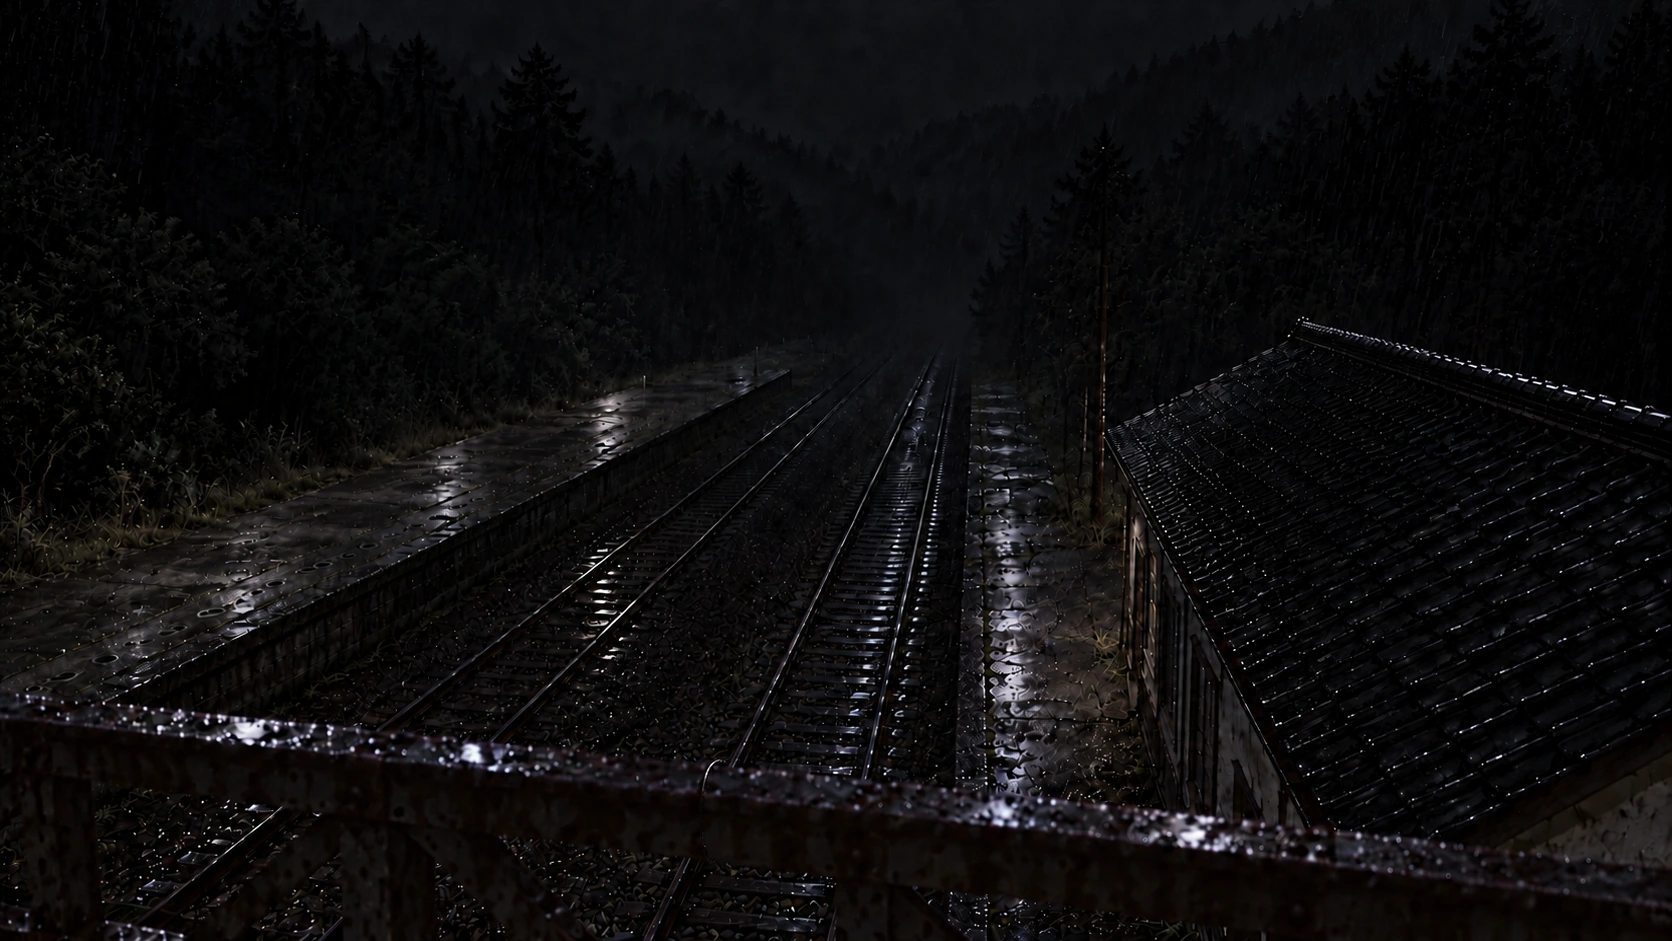
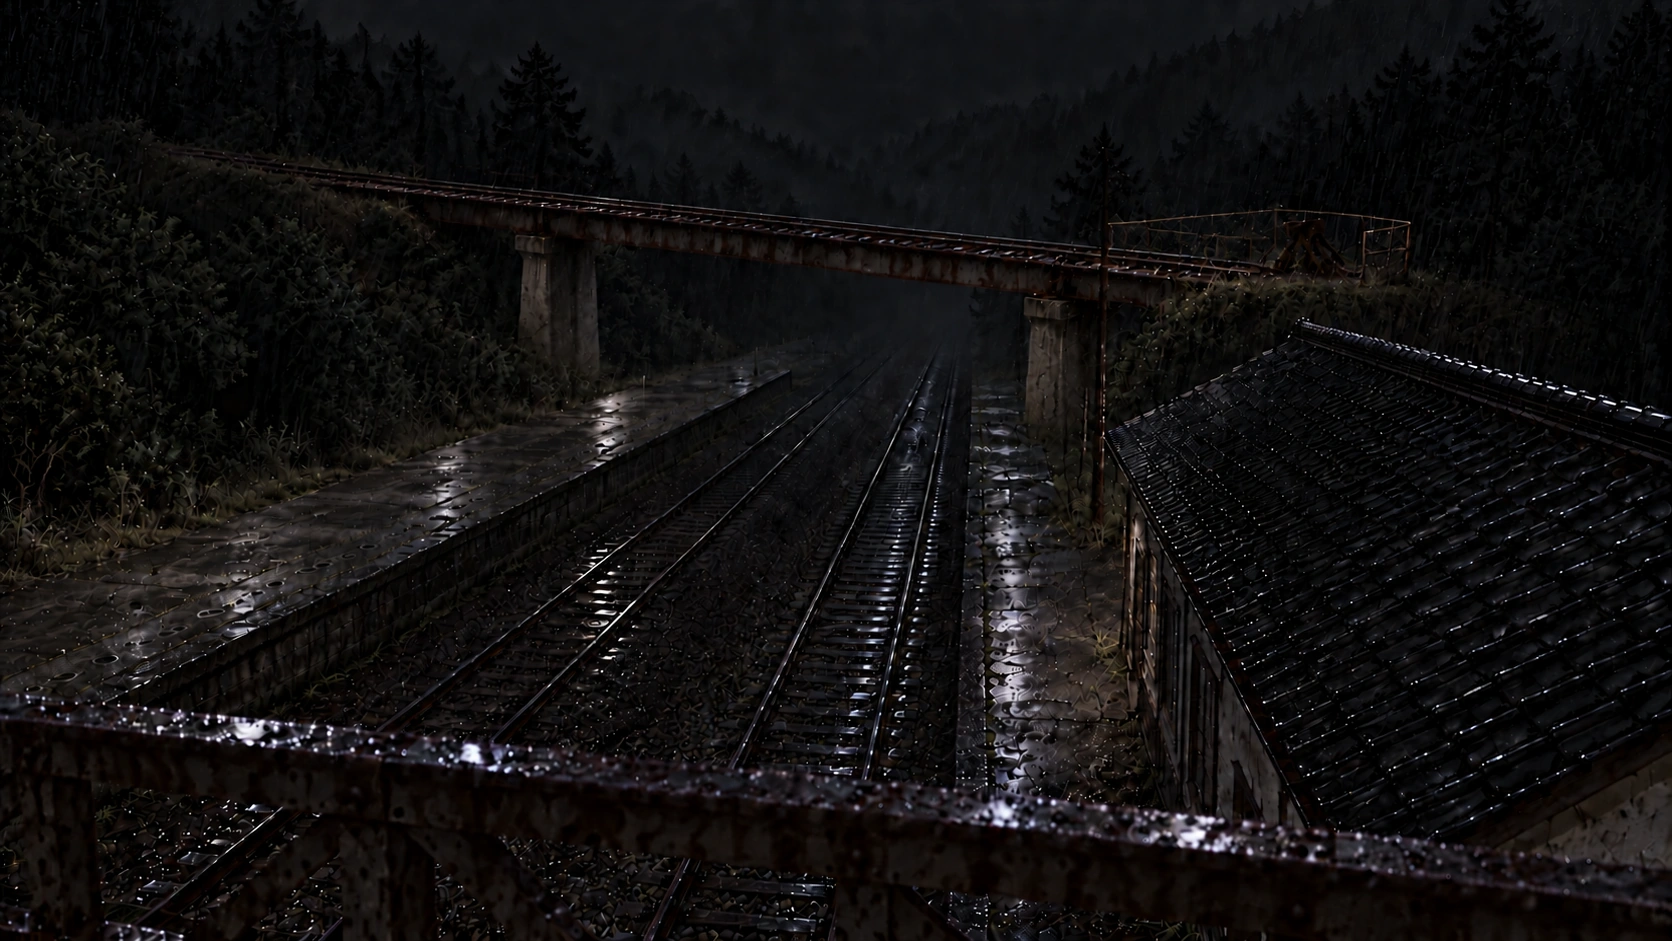
feat: 旧線の立体交差を線路配置と橋の実景に反映

diff --git a/src/remake/World.tsx b/src/remake/World.tsx
@@ -11,7 +11,7 @@ import { RecordCard } from './ServiceRecords';
 import { RecorderImage } from './Recorder';
 import { owns } from './model';
 import type { Action, Item, Room, State } from './model';
-export type Focus = 'railTag' | 'hookRack' | 'bridgeGate' | 'arrivalTicket' | 'signal' | 'tools' | 'bag' | 'photos' | 'recorder' | 'case' | 'map' | 'ticket' | 'reader' | 'hatch' | 'counterDrawer' | 'notices' | 'platformClock' | 'receipt' | 'officeLock' | 'paperView' | 'item' | 'seat' | null;
+export type Focus = 'crossing' | 'railTag' | 'hookRack' | 'bridgeGate' | 'arrivalTicket' | 'signal' | 'tools' | 'bag' | 'photos' | 'recorder' | 'case' | 'map' | 'ticket' | 'reader' | 'hatch' | 'counterDrawer' | 'notices' | 'platformClock' | 'receipt' | 'officeLock' | 'paperView' | 'item' | 'seat' | null;
 export const availableViews: Partial<Record<Room, string[]>> = { train: ['座席と鞄', '前方の座席', '車端'], platform: ['駅舎側', '列車側', '西の階段'], waiting: ['南の窓', '窓口', '出入口'], forecourt: ['駅前'], office: ['机と南の窓', '北の保管区画'], bridge: ['駅舎の屋根と北壁', '線路と屋根', '北端の保守柵'], north: ['停車灯と踏み板', '西の橋階段'] };
 function CounterObjects({ s }: {
     s: State;
@@ -32,7 +32,7 @@ export function World({ s, dispatch, inspect, selected, say }: {
     if (s.room === 'platform')
         return s.camera === 2 ? image('platform/west-bridge', '南ホーム西端の跨線橋階段', <Touch name="西の跨線橋へ上がる" rect={[34, 17, 18, 55]} act={() => move('bridge', 0)}/>) : s.camera === 1 ? image('platform/train', 'ホームに停まる列車', <Touch name="車内へ入る" rect={[37, 23, 22, 57]} act={() => move('train')}/>) : image('platform/station', '南ホームから見た待合室', <><Clock minutes={23 * 60 + 17} transform="translate(1030 302) scale(.72)"/><Touch name="待合室へ入る" rect={[36, 34, 20, 44]} act={() => move('waiting', 0)}/><Touch name="ホームの時計" rect={[57, 25, 9, 16]} act={() => inspect('platformClock')}/></>);
     if (s.room === 'bridge')
-        return s.camera === 1 ? <RailTagWide s={s} inspect={() => inspect('railTag')}/> : s.camera === 2 ? <BridgeGateWide s={s} dispatch={dispatch} inspect={() => inspect('bridgeGate')} enterNorth={() => move('north', 0)}/> : image('bridge/west-roof', '跨線橋から見える駅舎の北壁と西端', <Touch name="南ホームへ下りる" rect={[0, 56, 23, 44]} act={() => move('platform', 2)}/>);
+        return s.camera === 1 ? <RailTagWide s={s} inspect={() => inspect('railTag')} observe={() => inspect('crossing')}/> : s.camera === 2 ? <BridgeGateWide s={s} dispatch={dispatch} inspect={() => inspect('bridgeGate')} enterNorth={() => move('north', 0)}/> : image('bridge/west-roof', '跨線橋から見える駅舎の北壁と西端', <Touch name="南ホームへ下りる" rect={[0, 56, 23, 44]} act={() => move('platform', 2)}/>);
     if (s.room === 'waiting') {
         if (s.camera === 0)
             return image('waiting/south', '待合室の二つの南窓とベンチ');

diff --git a/src/remake/RailTag.tsx b/src/remake/RailTag.tsx
@@ -4,13 +4,17 @@ import { owns } from './model';
 import type { Action, Item, State } from './model';
 const root = '/assets/remake/bridge/';
 function stage(s: State) { return owns(s, 'pin') ? 'empty' : s.values.tagDepth?.[0] === 2 ? s.values.tagCaught?.[0] === 1 ? 'caught' : 'extended' : s.values.tagDepth?.[0] === 1 ? 'inserted' : 'initial'; }
-export function RailTagWide({ s, inspect }: {
+export function RailTagWide({ s, inspect, observe }: {
     s: State;
     inspect: () => void;
+    observe: () => void;
 }) {
-    useEffect(() => { for (const name of ['east-tag', 'east-tag-inserted', 'east-tag-extended', 'east-tag-caught', 'east-tag-empty'])
-        void decode(root + name + '.webp').catch(() => { }); }, []);
-    return <Photo src={root + 'east-tag' + (stage(s) === 'initial' ? '' : '-' + stage(s)) + '.webp'} label="跨線橋から東の線路と濡れた手すり">
+    useEffect(() => {
+        for (const name of ['east-tag', 'east-tag-empty'])
+            void decode(root + name + '.webp').catch(() => { });
+    }, []);
+    return <Photo src={root + 'east-tag' + (stage(s) === 'empty' ? '-empty' : '') + '.webp'} label="跨線橋から東の線路と濡れた手すり">
+        <Touch name="線路を跨ぐ古い高架" rect={[12, 13, 72, 24]} act={observe}/>
         <Touch name="濡れた手すりの下側" rect={[27, 69, 47, 30]} act={inspect}/>
     </Photo>;
 }
@@ -20,8 +24,10 @@ export function RailTagDetail({ s, dispatch, selected, say }: {
     selected: Item | null;
     say: (m: string) => void;
 }) {
-    useEffect(() => { for (const name of ['rail-tag', 'rail-tag-inserted', 'rail-tag-extended', 'rail-tag-caught', 'rail-tag-empty'])
-        void decode(root + name + '.webp').catch(() => { }); }, []);
+    useEffect(() => {
+        for (const name of ['rail-tag', 'rail-tag-inserted', 'rail-tag-extended', 'rail-tag-caught', 'rail-tag-empty'])
+            void decode(root + name + '.webp').catch(() => { });
+    }, []);
     const state = stage(s);
     return <Photo src={root + 'rail-tag' + (state === 'initial' ? '' : '-' + state) + '.webp'} label="手すりの隙間と外側に吊るされた薄い金具">
         {state === 'initial' && <><Touch name="手すりの上側" rect={[30, 16, 33, 27]} act={() => say('上の支柱に当たる。')}/><Touch name="手すりの下の隙間" rect={[14, 43, 28, 33]} act={() => !owns(s, 'hook') || selected !== 'hook' ? say('手では届かない。') : dispatch({ type: 'tagInsert' })}/></>}

diff --git a/src/remake/routeGeometry.ts b/src/remake/routeGeometry.ts
@@ -1,0 +1,56 @@
+import type { Node } from './model';
+export type Site = Node | 'S' | 'R' | 'O' | 'X' | 'bend';
+export type Position = {
+    x: number;
+    y: number;
+    z: number;
+};
+/** Metres. The station footprint is x=0..18; the wider railway uses this same frame. */
+export const sites: Record<Site, Position> = {
+    S: { x: 0, y: 5, z: 0 }, R: { x: 18, y: 5, z: 0 },
+    A: { x: -12, y: 5, z: 0 }, B: { x: -24, y: 0, z: 0 },
+    C: { x: -22, y: 150, z: 0 }, D: { x: -54, y: 0, z: 0 },
+    E: { x: -33, y: 30, z: 0 }, F: { x: -49, y: 30, z: 0 },
+    O: { x: -65, y: 0, z: 0 }, X: { x: -49, y: 20, z: 4.5 },
+    bend: { x: -26, y: 180, z: 0 },
+};
+export const railLines: Record<string, Site[]> = {
+    'S-A': ['S', 'A'], 'A-B': ['A', 'B'], 'A-C': ['A', 'C'],
+    'B-D': ['B', 'D'], 'B-E': ['B', 'E'], 'C-E': ['C', 'E'], 'C-X': ['C', 'X'],
+    'E-F': ['E', 'F'], 'R-F': ['R', 'bend', 'F'], 'F-D': ['F', 'D'], 'D-O': ['D', 'O'],
+};
+export function crossing2d(a: Position, b: Position, c: Position, d: Position) {
+    const abx = b.x - a.x, aby = b.y - a.y, cdx = d.x - c.x, cdy = d.y - c.y;
+    const den = abx * cdy - aby * cdx;
+    if (Math.abs(den) < 1e-8)
+        return null;
+    const acx = c.x - a.x, acy = c.y - a.y;
+    const t = (acx * cdy - acy * cdx) / den, u = (acx * aby - acy * abx) / den;
+    if (t <= 0 || t >= 1 || u <= 0 || u >= 1)
+        return null;
+    return { x: a.x + t * abx, y: a.y + t * aby, z1: a.z + t * (b.z - a.z), z2: c.z + u * (d.z - c.z) };
+}
+export function railCrossings() {
+    const out: {
+        lines: [
+            string,
+            string
+        ];
+        point: ReturnType<typeof crossing2d>;
+    }[] = [];
+    for (const [name, path] of Object.entries(railLines))
+        for (const [other, otherPath] of Object.entries(railLines)) {
+            if (name >= other)
+                continue;
+            for (let i = 1; i < path.length; i++)
+                for (let j = 1; j < otherPath.length; j++) {
+                    const a = path[i - 1], b = path[i], c = otherPath[j - 1], d = otherPath[j];
+                    if ([a, b].some(site => [c, d].includes(site)))
+                        continue;
+                    const p = crossing2d(sites[a], sites[b], sites[c], sites[d]);
+                    if (p)
+                        out.push({ lines: [name, other], point: p });
+                }
+        }
+    return out;
+}

diff --git a/src/remake/remake.css b/src/remake/remake.css
@@ -40,3 +40,4 @@
 .rm-shutter,.rm-north{display:flex;flex-direction:column;align-items:center;width:100%;gap:12px;padding:74px 0 120px}.rm-shutter>.rm-photo,.rm-north>.rm-photo{width:min(100vw,calc((100dvh - 240px)*1.776));max-height:none}.rm-shutter .rm-document-controls,.rm-north .rm-document-controls{flex-wrap:wrap;justify-content:center;margin:0}.rm-shutter .rm-object-overlay [role=slider]{outline-offset:5px}@media(max-width:600px){.rm-shutter>.rm-photo,.rm-north>.rm-photo{width:100vw}.rm-shutter .rm-document-controls button,.rm-north .rm-document-controls button{font-size:12px!important}}
 .rm-inventory button{display:flex;flex-direction:column;align-items:center;justify-content:center;gap:2px;min-width:62px;min-height:62px!important;padding:4px 8px!important;font-size:11px!important;line-height:1.15}.rm-inventory-art,.rm-held-icon{display:grid;place-items:center;flex:0 0 auto;overflow:hidden}.rm-inventory-art{width:39px;height:38px}.rm-inventory-art>.rm-item-image,.rm-held-icon>.rm-item-image{width:100%;height:100%;object-fit:contain;filter:drop-shadow(0 1px 2px #0009)}.rm-inventory-art>svg,.rm-held-icon>svg{width:100%;height:100%;max-width:100%;max-height:100%;object-fit:contain}.rm-inventory-art .rm-service-paper,.rm-inventory-art .rm-receipt-paper,.rm-inventory-art .rm-ticket-paper,.rm-inventory-art .rm-trial-paper{width:100%;height:100%}.rm-inventory-art .rm-ticket-paper,.rm-held-icon .rm-ticket-paper{filter:drop-shadow(0 2px 2px #000b)}.rm-inventory-art .rm-ticket-paper{height:auto}.rm-item-photo-stack{position:relative;display:block;width:29px;height:31px;border:2px solid #d1c4a9;background:#ddd1b4;transform:rotate(-5deg);box-shadow:3px -3px 0 #aaa085,6px -6px 0 #645f52}.rm-item-photo-stack img{width:100%;height:100%;object-fit:cover}.rm-held-icon{width:72px;height:72px;filter:drop-shadow(0 4px 3px #0008)}.rm-held-icon .rm-item-photo-stack{transform:scale(1.5) rotate(-5deg)}@media(max-width:600px){.rm-inventory button{min-width:56px;min-height:57px!important;padding:3px 5px!important;font-size:10px!important}.rm-inventory-art{width:31px;height:31px}.rm-held-icon{width:50px;height:50px}}
 @media(max-width:600px){.rm-world-nav{top:calc(50% - 150px)}}
+.rm-route-focus{width:min(100vw,800px);display:flex;justify-content:center}.rm-route-focus .rm-photo{width:100%!important;max-width:100%!important}

diff --git a/src/remake/routeGeometry.test.ts b/src/remake/routeGeometry.test.ts
@@ -1,0 +1,19 @@
+import { expect, it } from 'vitest';
+import { railCrossings, railLines, sites } from './routeGeometry';
+import { connections, nodes } from './model';
+it('現物の線は二口分岐モデルの全接続を持ち、誤認される交差だけが立体で分かれる', () => {
+    for (const node of nodes)
+        for (const pair of connections[node])
+            for (const other of pair) {
+                const edge = [node, other].sort().join('-');
+                expect(Object.keys(railLines).some(id => id.split('-').sort().join('-') === edge), edge).toBe(true);
+            }
+    const crossings = railCrossings();
+    expect(crossings.map(x => x.lines.sort().join('/'))).toEqual(['C-X/E-F']);
+    expect(crossings[0].point?.x).toBeCloseTo(-46.923, 2);
+    expect(Math.abs(crossings[0].point!.z1 - crossings[0].point!.z2)).toBeGreaterThan(3.5);
+    const slope = (sites.X.z - sites.C.z) / Math.hypot(sites.X.x - sites.C.x, sites.X.y - sites.C.y);
+    expect(slope).toBeLessThan(.04);
+    const seenFromBridge = Math.hypot(crossings[0].point!.x + 8, crossings[0].point!.y - 25);
+    expect(seenFromBridge).toBeLessThan(45);
+});

diff --git a/src/remake/FocusView.tsx b/src/remake/FocusView.tsx
@@ -19,6 +19,7 @@ import { ServiceRecords } from './ServiceRecords';
 import { OfficeLock } from './OfficeLock';
 import { Receipt } from './Receipt';
 import { Photo } from './Photo';
+import { owns } from './model';
 import { Clock } from './Clock';
 import type { Focus } from './World';
 import type { Action, Item, State } from './model';
@@ -34,6 +35,7 @@ export function FocusView({ focus, s, dispatch, say, selected, onSelect, close, 
     inspect: (focus: Focus) => void;
 }) {
     switch (focus) {
+        case 'crossing': return <div className="rm-route-focus"><Photo src={'/assets/remake/bridge/east-tag' + (owns(s, 'pin') ? '-empty' : '') + '.webp'} view={[425, 150, 800, 620]} label="旧線の橋脚とその下を続く線路"/></div>;
         case 'signal': return <Shutter s={s} dispatch={dispatch} reader={() => inspect('reader')}/>;
         case 'tools': return <ToolTrial s={s} dispatch={dispatch} say={say} openTicket={() => inspect('ticket')}/>;
         case 'seat': return <Train s={s} dispatch={dispatch} closeSeat={s.values.seatFocus?.[0] ?? 2} inspect={() => { }} inspectCase={() => { }} say={say}/>;

diff --git a/docs/remake/ROUTE-GEOMETRY-REVIEW.md b/docs/remake/ROUTE-GEOMETRY-REVIEW.md
@@ -1,0 +1,23 @@
+# Q25／Q27 線路配置の中間検証
+
+## 確定したこと
+
+- `src/remake/routeGeometry.ts` は `model.ts` の全ての接続を同じメートル座標へ置く。意図しない平面交差はなく、投影が重なるのは旧線 C–X と通過線 E–F の一箇所だけ。
+- 交差の真下はおよそ `(-46.923, 30)`。C–X の高さは約 4.15 m、E–F は 0 m。旧線の終端 X は 4.5 m の盛土上。C から X までの勾配は約 3.39%。跨線橋の観測位置 `(-8,25)` から交差まで約 39 m で、現物が読める距離にした。
+- 途中案は交差が4箇所になったため破棄。以前の交差1箇所案は交差が駅から百メートル近く離れ、夜の写真では読みにくいため破棄。`route-network.png` は採用案の**制作者用**俯瞰図であり、ゲーム内の解答図ではない。
+- 橋からの採用写真 `bridge/east-tag.webp` と、札を取った後の `bridge/east-tag-empty.webp` に旧線の橋脚と、その下を続く地上線を同じ画角で追加。どちらも写真全体を生成し、細い高架だけの解像度の違う貼り重ねを避けた。手すりの現物操作は接写写真で状態を示す。
+- 390px画面の全景では高架が小さかった。交差をタップすると元写真の800×620px範囲を最大800px幅で見る。PCで元画素と同倍率、スマートフォンでは縮小のままなので、無理な拡大による粗さを避けた。PC・390pxで目視。
+
+## 未合格・次の制作条件
+
+- Q25 が成立するには、橋だけでなく地下の窓と北ホームから**同じ二本の線**を読めることが必要。窓・ホームの候補写真はあるが、駅舎と線路の向き、線路の本数が橋の写真と完全に合っているか再検査するまで採用しない。
+- 実画面では高架の高さが読めても、E–F が屋根の下で連続すること、C の先が F に繋がらず X へ行くことはまだ確証に足りない。地図を出して正解へ誘導せず、別観測点で同じ橋脚・枕木・標柱を照合できる絵を優先する。
+- 俯瞰図の駅周辺は横幅の狭い分岐群を制作者用に直線で示す。ゲーム画像へ移すときは線路の曲率と分岐器の実寸を確認する。R–F は北側の迂回線。G1は**未合格**のまま。
+- Q27 は6個の可動レバー、鎖錠、実レールの状態差分、現在の B–D 閉塞と二つの許容帰路が未接続。`routeGeometry.test.ts` が通っただけで完成と判断しない。
+
+## 候補画像
+
+- 橋：`exec-39013af9-96bf-4a09-a2e7-83edcbdb5cc7.png`、札取得後：`exec-93fb43a6-f265-447b-965b-ae23cac7bba3.png`。採用。
+- 地下窓：`exec-0f484ca2-0a51-49c1-baef-930bb4c21794.png`。候補。線路の向きと本数を再検査。
+- 北ホーム：`exec-c924aebe-8045-4b39-95a3-462e5cdb153a.png`。候補。駅舎の左右と屋根の向きが既存場面と食い違う可能性あり。
+- 最初の橋の線路のみ版：`exec-7239e8a7-b308-4059-8fc8-ec3d1af31219.png`。札がないので最終採用はせず、画像作成時の基準として残す。
